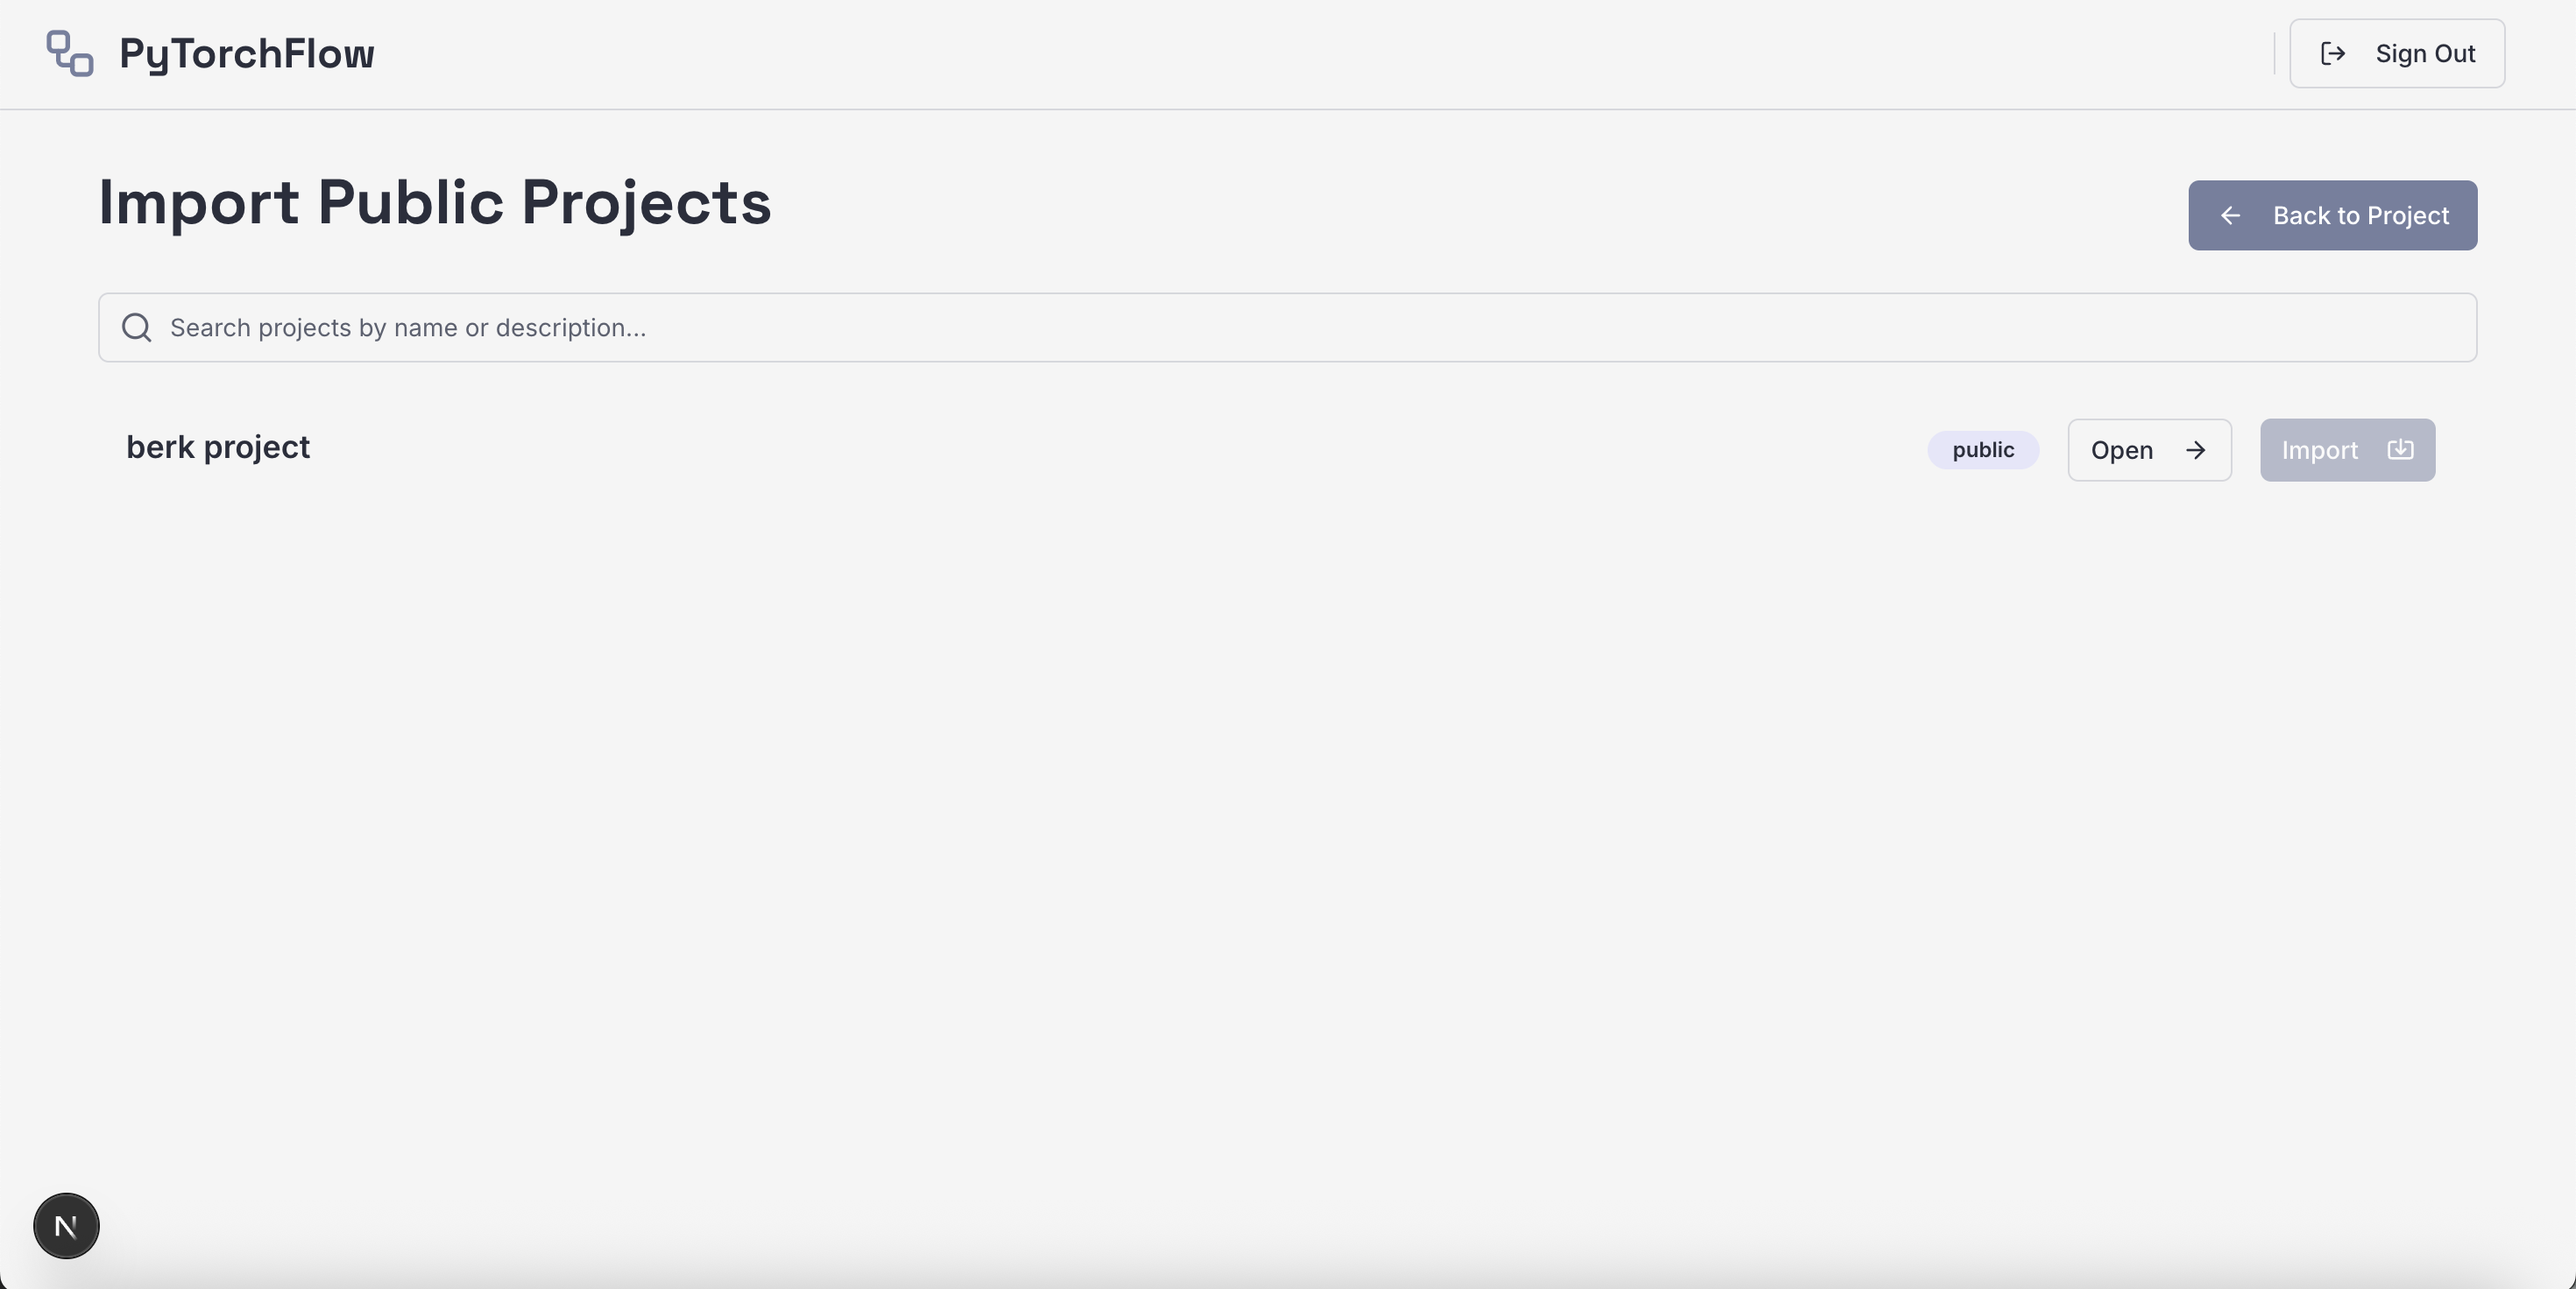
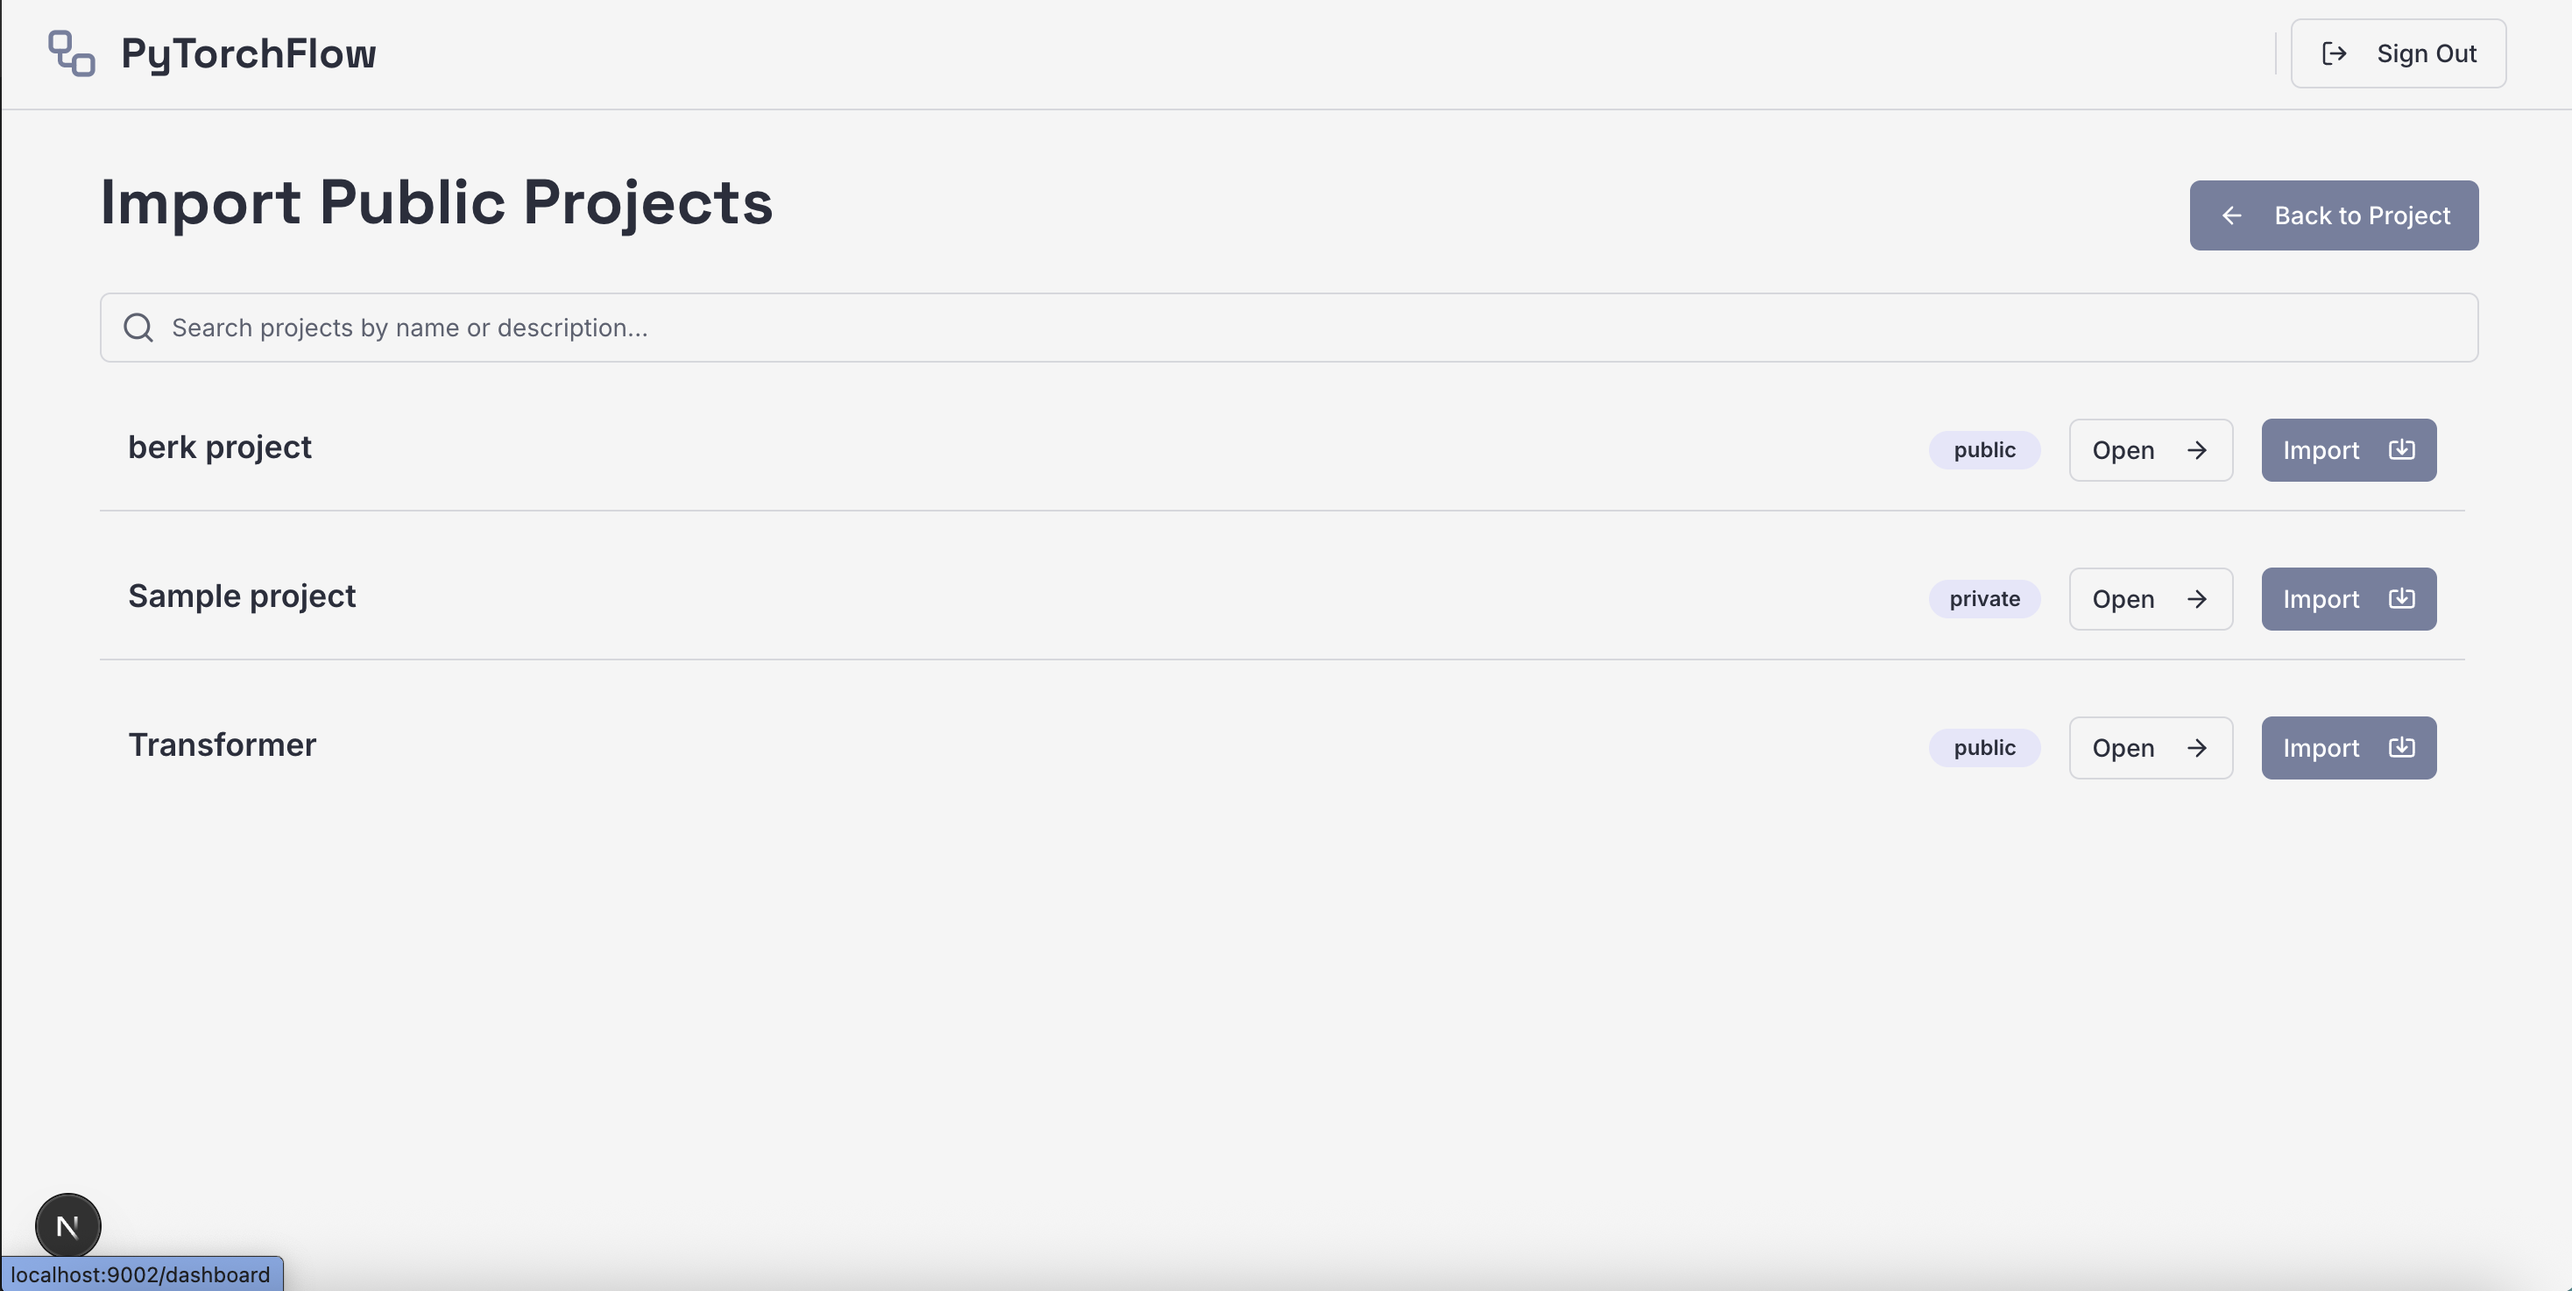
more sample images

diff --git a/src/components/screens/importScreen.tsx b/src/components/screens/importScreen.tsx
@@ -14,6 +14,7 @@ import { useImports } from "@/hooks/use-imports";
 import { useEffect, useState } from "react";
 import { getDocs, query, where } from "firebase/firestore";
 import { projectsRef } from "@/lib/firebase";
+import { useProjects } from "@/hooks/use-projects";
 
 interface ImportScreenProps {
   id: string;
@@ -21,7 +22,9 @@ interface ImportScreenProps {
 
 export default function ImportScreen({ id }: ImportScreenProps) {
   const { user } = useAuth();
-  const [projects, setProjects] = useState<Project[]>([]);
+  const [importableProjects, setImportableProjects] = useState<Project[]>([]);
+
+  const { projects } = useProjects();
   const { importedProjects, addImportedProjects } = useImports();
   const router = useRouter();
 
@@ -39,11 +42,13 @@ export default function ImportScreen({ id }: ImportScreenProps) {
           (doc) =>
             ({
               ...doc.data(),
-            } as Project)
+            }) as Project,
         )
         .filter((p) => p.uid !== user?.uid);
 
-      setProjects(documents);
+      const p = projects.filter((p) => p.id !== id);
+
+      setImportableProjects([...documents, ...p]);
     } catch (error) {
       console.error(error);
     }
@@ -69,7 +74,7 @@ export default function ImportScreen({ id }: ImportScreenProps) {
             ClickIcon={ArrowLeft}
           />
           <ProjectList
-            projects={projects}
+            projects={importableProjects}
             onOpenProject={handleOpenProject}
             pageType="import"
             onImportProject={handleImport}

diff --git a/src/components/screens/exploreScreen.tsx b/src/components/screens/exploreScreen.tsx
@@ -13,12 +13,13 @@ import { useRouter } from "next/navigation";
 import { getDocs, query, where } from "firebase/firestore";
 import { projectsRef } from "@/lib/firebase";
 import { useEffect, useState } from "react";
+import { useProjects } from "@/hooks/use-projects";
 
 export default function ExploreScreen() {
   const { user } = useAuth();
   const router = useRouter();
 
-  const [projects, setProjects] = useState<Project[]>([]);
+  const [explorableProjects, setExplorableProjects] = useState<Project[]>([]);
 
   useEffect(() => {
     getProjects();
@@ -29,14 +30,16 @@ export default function ExploreScreen() {
       const docRef = query(projectsRef, where("visibility", "==", "public"));
       const data = await getDocs(docRef);
 
-      const documents = data.docs.map(
-        (doc) =>
-          ({
-            ...doc.data(),
-          }) as Project,
-      );
+      const documents = data.docs
+        .map(
+          (doc) =>
+            ({
+              ...doc.data(),
+            }) as Project,
+        )
+        .filter((p) => !user || user.uid !== p.uid);
 
-      setProjects(documents);
+      setExplorableProjects(documents);
     } catch (error) {
       console.error(error);
     }
@@ -58,7 +61,7 @@ export default function ExploreScreen() {
             ClickIcon={ArrowLeft}
           />
           <ProjectList
-            projects={projects}
+            projects={explorableProjects}
             onOpenProject={handleOpenProject}
             pageType="explore"
           />
